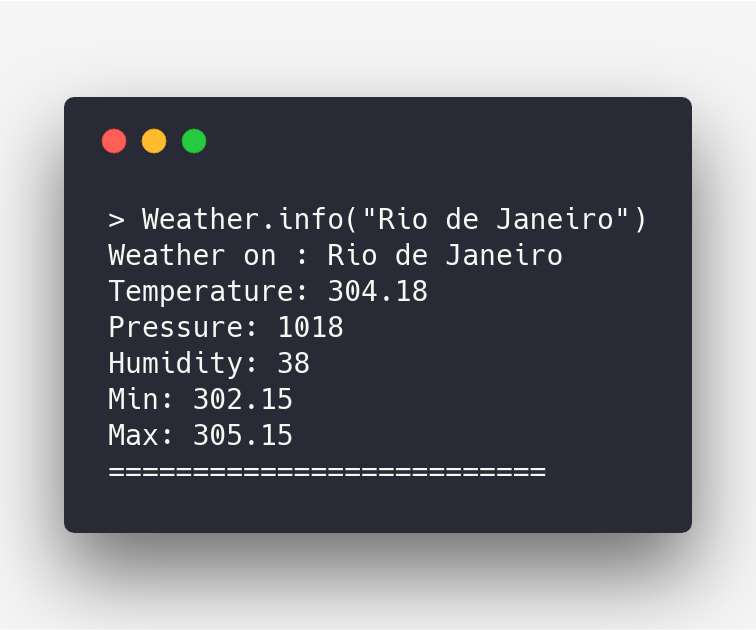
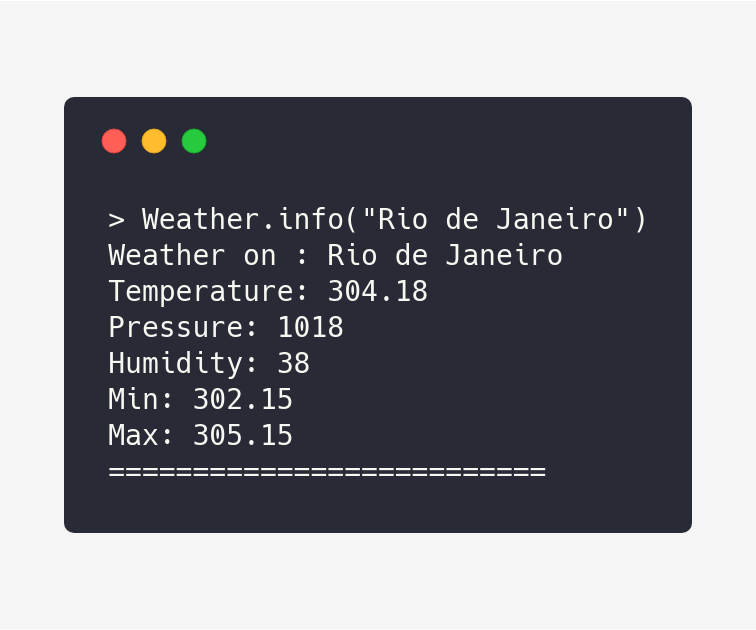
change image and image size for weather module

Changed region(s): [[0.0304, 0.181, 0.9735, 0.9651]]

diff --git a/README.md b/README.md
@@ -2,7 +2,7 @@
 
 ## Weather
 
-<img src="weather.png" />
+<img src="weather.png" width="400" />
 
 Documentation can be generated with [ExDoc](https://github.com/elixir-lang/ex_doc)
 and published on [HexDocs](https://hexdocs.pm). Once published, the docs can
